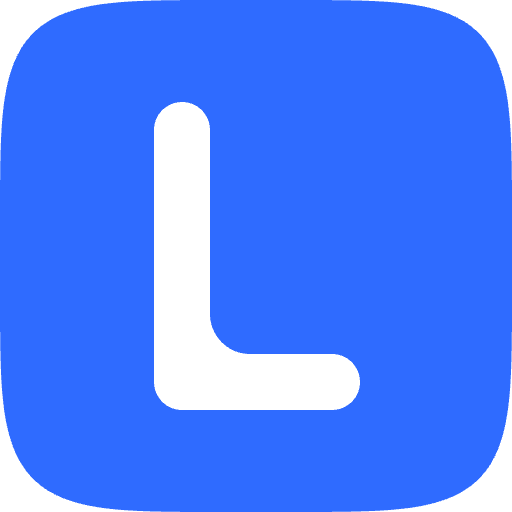
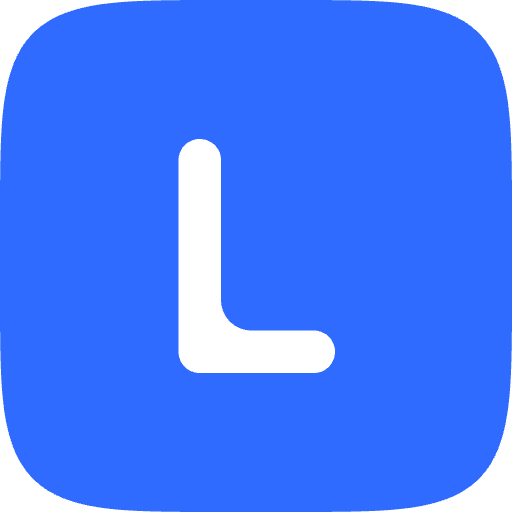
fix(service,manager): 修公网地址与自签证书配对，补 upgrade.sh
- Service pair 增加公网 IPv4 探测（ipify / icanhazip / ifconfig.me 回退），
  新增 --port 覆盖反代端口；配对地址不对时给出明确提示
- 服务端日志打印配对请求、拒绝原因与成功设备，便于判断 Manager 有没有连上
- Manager Android/桌面端允许自签证书：TLS 只做传输，身份仍由 auth.challenge
  的 service_pub 指纹与签名校验；Web 端仍要求系统信任证书
- 新增 scripts/upgrade.sh：停服务、校验 SHA256、备份旧二进制、失败自动回滚
- README/DEPLOY 增加一键升级命令，统一 Service / Manager 术语
- 图标 L 整体缩到 0.76，减轻压迫感；Manager 版本改为 1.0.0+1

Changed region(s): [[0.2812, 0.1875, 0.7188, 0.8125]]

diff --git a/manager/lib/core/socket_io.dart b/manager/lib/core/socket_io.dart
@@ -1,0 +1,17 @@
+// Android/桌面的 WebSocket：允许自签证书。
+//
+// 自托管 Service 默认用自签证书，Android 系统信任库不会认；但真正的身份校验在
+// auth.challenge：客户端比对 service_pub 的指纹并验签，TLS 不是唯一信任边界。
+// 浏览器不允许绕过证书校验，所以 Web 端仍要求 Service 用受信任的证书。
+import 'dart:io';
+
+import 'package:web_socket_channel/io.dart';
+import 'package:web_socket_channel/web_socket_channel.dart';
+
+WebSocketChannel openWebSocket(Uri uri) {
+  final client = HttpClient()
+    ..connectionTimeout = const Duration(seconds: 15)
+    ..badCertificateCallback =
+        (X509Certificate certificate, String host, int port) => true;
+  return IOWebSocketChannel.connect(uri, customClient: client);
+}

diff --git a/manager/lib/core/client.dart b/manager/lib/core/client.dart
@@ -11,6 +11,7 @@ import 'package:web_socket_channel/web_socket_channel.dart';
 import 'identity.dart';
 import 'p256.dart';
 import 'protocol.dart';
+import 'socket.dart';
 
 /// 连接状态，界面按它渲染顶部说明条。
 enum ConnState { idle, connecting, online, reconnecting, error }
@@ -145,7 +146,7 @@ class LiantClient {
 
     final WebSocketChannel channel;
     try {
-      channel = WebSocketChannel.connect(Uri.parse(identity.address.wsUrl));
+      channel = openWebSocket(Uri.parse(identity.address.wsUrl));
     } catch (err) {
       _scheduleRetry('无法连接：$err');
       return;

diff --git a/manager/lib/core/app_state.dart b/manager/lib/core/app_state.dart
@@ -12,6 +12,7 @@ import 'client.dart';
 import 'identity.dart';
 import 'p256.dart';
 import 'protocol.dart';
+import 'socket.dart';
 
 /// 媒体加载状态。
 class MediaState {
@@ -183,7 +184,7 @@ class AppState extends ChangeNotifier {
     final keyPair = p256GenerateKey();
     final WebSocketChannel channel;
     try {
-      channel = WebSocketChannel.connect(Uri.parse(address.wsUrl));
+      channel = openWebSocket(Uri.parse(address.wsUrl));
     } catch (err) {
       throw ProtocolException('offline', '无法连接到服务：$err');
     }

diff --git a/manager/lib/core/socket_web.dart b/manager/lib/core/socket_web.dart
@@ -1,0 +1,4 @@
+// Web：证书交给浏览器校验，客户端不能忽略错误。
+import 'package:web_socket_channel/web_socket_channel.dart';
+
+WebSocketChannel openWebSocket(Uri uri) => WebSocketChannel.connect(uri);

diff --git a/manager/lib/core/socket.dart b/manager/lib/core/socket.dart
@@ -1,0 +1,2 @@
+// 条件导出：原生端可以处理自签证书，Web 端只能交给浏览器。
+export 'socket_io.dart' if (dart.library.js_interop) 'socket_web.dart';

diff --git a/service/cmd/liant/serve.go b/service/cmd/liant/serve.go
@@ -9,6 +9,7 @@ import (
 	"errors"
 	"flag"
 	"fmt"
+	"io"
 	"log/slog"
 	"net"
 	"net/http"
@@ -261,7 +262,8 @@ func pairCommand(args []string) {
 	cfg := loadConfigOrDie()
 
 	fs := flag.NewFlagSet("pair", flag.ExitOnError)
-	hostFlag := fs.String("host", "", "二维码里通告的主机名或 IP；留空则用 connect.address 或自动探测")
+	hostFlag := fs.String("host", "", "配对信息里通告的主机名或 IP；留空则用 connect.address、公网 IP 或本机地址")
+	portFlag := fs.Int("port", 0, "配对信息里通告的端口；留空用 listen 端口（反代到 443 时填 443）")
 	_ = fs.Parse(args)
 
 	pairer := pairing.New()
@@ -303,16 +305,31 @@ func pairCommand(args []string) {
 		os.Exit(1)
 	}
 	if cfg.Connect.Address == "" && *hostFlag == "" {
-		fmt.Printf("自动检测到本机地址：%s，手机需能访问它；跨网请用 --host\n", host)
+		fmt.Printf("自动检测到对外地址：%s，手机需能访问它；不对请用 --host 覆盖\n", host)
 	}
 	if isLoopbackHost(host) {
 		fmt.Fprintf(os.Stderr, "警告：%s 是回环地址，只有 Service 本机能访问；手机请改用 --host <局域网或公网地址>\n", host)
+	} else if isPrivateHost(host) {
+		fmt.Fprintf(os.Stderr, "警告：%s 是内网地址，外网手机不可达；跨网请用 --host <公网 IP 或域名>\n", host)
+	}
+
+	port := portOf(listenAddr(cfg))
+	if *portFlag > 0 {
+		if *portFlag > 65535 {
+			fmt.Fprintln(os.Stderr, "端口超出范围")
+			os.Exit(1)
+		}
+		port = *portFlag
+	}
+	fmt.Printf("配对地址：%s:%d\n", host, port)
+	if port != portOf(listenAddr(cfg)) {
+		fmt.Printf("配对端口使用 %d（监听端口是 %d，确认反代已转发 /v1/ws）\n", port, portOf(listenAddr(cfg)))
 	}
 
 	payload, _ := json.Marshal(map[string]any{
 		"v":     protocol.Version,
 		"host":  host,
-		"port":  portOf(listenAddr(cfg)),
+		"port":  port,
 		"fp":    id.Fingerprint(),
 		"ticket": code.Value,
 		"nonce": code.Nonce,
@@ -331,9 +348,11 @@ func pairCommand(args []string) {
 		}
 	}
 	fmt.Println("手机打开 LianT 客户端「连接 LianT」页，粘贴上面的配对信息（或扫码）；本终端还会再确认一次。")
+	fmt.Println("等待 Manager 连接… 如果长时间没有提示，先确认手机能访问上面的配对地址。")
 
 	if delegated {
 		fmt.Println("检测到服务已在运行，这条配对码交给它处理。")
+		fmt.Println("配对确认会出现在 serve 的终端；systemd 下通常是自动批准，设备登记后这里会打印成功。")
 		before, _ := db.CountDevices(context.Background())
 		deadline := time.Now().Add(time.Until(code.Expires) + 2*time.Minute)
 		for time.Now().Before(deadline) {
@@ -397,14 +416,61 @@ func pairHost(flagHost string, cfg config.Config) string {
 	if h := addressHost(cfg.Connect.Address); h != "" {
 		return h
 	}
-	if ip := localIPv4(); ip != "" {
+	local := localIPv4()
+	// 本机直接有公网地址就不绕 HTTP 探测，避免没网时白等。
+	if local != "" && isPublicIP(local) {
+		return local
+	}
+	if ip := publicIPv4(); ip != "" {
 		return ip
+	}
+	if local != "" {
+		return local
 	}
 	// 主机名可能是 localhost，解析出来就是回环，宁可报错让用户显式给 --host。
 	if name, err := os.Hostname(); err == nil && !isLoopbackHost(name) {
 		return name
 	}
 	return ""
+}
+
+// publicIPv4 依次问几个公共回显服务，拿不到就返回空。
+// 只接受公网 IPv4：回环、私网、链路本地、IPv6 一律忽略。
+func publicIPv4() string {
+	client := &http.Client{Timeout: 4 * time.Second}
+	for _, endpoint := range []string{
+		"https://api.ipify.org",
+		"https://ipv4.icanhazip.com",
+		"https://ifconfig.me/ip",
+	} {
+		resp, err := client.Get(endpoint)
+		if err != nil {
+			continue
+		}
+		body, _ := io.ReadAll(io.LimitReader(resp.Body, 64))
+		resp.Body.Close()
+		ip := net.ParseIP(strings.TrimSpace(string(body)))
+		if ip == nil || ip.To4() == nil {
+			continue
+		}
+		if isPublicIP(ip.String()) {
+			return ip.String()
+		}
+	}
+	return ""
+}
+
+func isPublicIP(host string) bool {
+	ip := net.ParseIP(host)
+	if ip == nil || ip.To4() == nil {
+		return false
+	}
+	return ip.IsGlobalUnicast() && !ip.IsPrivate() && !ip.IsLoopback() && !ip.IsLinkLocalUnicast()
+}
+
+func isPrivateHost(host string) bool {
+	ip := net.ParseIP(host)
+	return ip != nil && ip.IsPrivate()
 }
 
 func isLoopbackHost(host string) bool {

diff --git a/service/internal/server/server.go b/service/internal/server/server.go
@@ -349,6 +349,7 @@ func (c *conn) handlePair(env protocol.Envelope) error {
 		c.writeErrorFor(env, protocol.CodeInvalidPayload, "pair.request 字段不合法", nil)
 		return nil
 	}
+	c.s.opt.Logf("收到配对请求: name=%q ip=%s", req.ManagerName, c.ip)
 	ctx, cancel := context.WithTimeout(context.Background(), 30*time.Second)
 	defer cancel()
 
@@ -421,6 +422,7 @@ func (c *conn) handlePair(env protocol.Envelope) error {
 		return c.denyPair(env, "internal")
 	}
 	c.audit("pair.ok", deviceID, name, "")
+	c.s.opt.Logf("配对成功: device=%s name=%q ip=%s", deviceID, name, c.ip)
 	return c.write(protocol.TypePairOK, env.ID, protocol.PairOK{
 		ServiceID:    c.s.opt.Identity.Fingerprint(),
 		ServiceName:  "LianT Service",
@@ -430,6 +432,7 @@ func (c *conn) handlePair(env protocol.Envelope) error {
 }
 
 func (c *conn) denyPair(env protocol.Envelope, reason string) error {
+	c.s.opt.Logf("拒绝配对: reason=%s ip=%s", reason, c.ip)
 	c.audit("pair.denied", "", "", reason)
 	return c.write(protocol.TypePairDenied, env.ID, protocol.PairDenied{Reason: reason})
 }

diff --git a/docs/HANDOFF.md b/docs/HANDOFF.md
@@ -24,8 +24,10 @@
   所以实际上仍以配对码为主（见 SECURITY.md）
 - **不再内嵌网页管理端**：`internal/webui` 与 `web/` 已删除。根路径只返回一行纯文本说明，
   作用一是健康检查，二是让浏览器在这一层信任自签证书；`/v1/ws` 与 `/v1/media/` 保持
-- `LianT pair` 现在打印**配对信息 JSON** 并把 JSON 本身渲染成二维码（`data/pair-qr.png`），
-  不再生成 `https://…/#pair=` 管理页链接
+- `LianT pair` 打印**配对信息 JSON** 并把 JSON 本身渲染成二维码（`data/pair-qr.png`），
+  不再生成 `https://…/#pair=` 管理页链接；`--host` / `--port` 可覆盖对外地址，
+  公网 IPv4 会依次问 ipify / icanhazip / ifconfig.me，拿不到才退回内网地址
+- 配对请求现在会在服务端日志里打出「收到 / 拒绝 / 成功」，用 `journalctl -u liant -f` 能看到
 - QQ 适配器同时接 `GROUP_AT_MESSAGE_CREATE` 与 `GROUP_MESSAGE_CREATE`；`can_initiate=true`；
   `msg.send.active=true` 表示主动消息（不带 `msg_id`，因此没有 @ 和引用）
 - 群资料 `GET /v2/groups/{openid}/info`，403/404 → `event.peer {hint:"whitelist"}`
@@ -49,6 +51,8 @@ Docker 已全部移除，不要加回来。
   失败重试、`msg.list` 历史、`media.fetch`、设备/审计、备注/已读/主动消息持久化；
   消息最多留 2000 条，备注与已读不设上限。
 - `lib/core/browser_env*.dart`：条件导入，Web 读地址栏参数，其它平台返回 null。
+- `lib/core/socket*.dart`：条件导入；Android/桌面端接受自签证书（身份仍由 auth.challenge
+  的节点指纹校验），Web 端交给浏览器。
 - `android/` 已入库：应用 ID `com.bailensn.liant`，主清单带 `INTERNET` 权限，
   Gradle 工具链按 CI 的 Flutter 3.24.5 对齐（Gradle 8.3 / AGP 8.1.0 / Kotlin 1.8.22）。
   图标源文件是 `assets/icon.svg`（iOS squircle 蓝底 + 圆头 L）与 `assets/icon_foreground.svg`，
@@ -145,6 +149,7 @@ cd build/web && setsid nohup python3 -m http.server 8081 --bind 127.0.0.1 >/dev/
 - Android 还没有正式签名配置（release 包临时用 debug key 签名），正式上架需要接 signingConfig
 - Android 真机还没跑过配对与收发（本机只有 Web 预览与 mock 服务）
 - Basic 认证启用后，Flutter 原生端无法在 WebSocket 握手提供凭据；用反代侧访问控制或暂不开启
+- Web 端连接自签证书仍会失败；需要先信任证书或反代换正式证书
 - 通知、真机截图仍是缺口
 - DSH 的 Linux 环境装不上（loader 资产校验写死在 APK 里），与项目无关，不要浪费时间
 

diff --git a/docs/DEPLOY.md b/docs/DEPLOY.md
@@ -62,7 +62,11 @@ QQ 的 `app_id/app_secret` 来自 QQ 开放平台机器人后台。
 ./LianT pair                    # 自动探测本机 IPv4，适合手机和服务器同一网络
 ./LianT pair --host 1.2.3.4     # 指定手机可达的地址
 ./LianT pair --host liant.example.com   # 有域名/反代时
+./LianT pair --host liant.example.com --port 443   # 反代对外是 443 时
 ```
+
+`pair` 会按「`--host` > `config.connect.address` > 本机公网 IPv4 > 本机内网 IPv4 > 主机名」
+决定配对地址；公网 IP 通过多个公共回显服务探测，探测不到会打印提示，用 `--host` 覆盖即可。
 
 配对成功后 `pair` **不会退出**，会继续以服务模式运行（Bot 也会被认领），
 所以之后不需要再单独 `serve`；要停止按 Ctrl+C。
@@ -79,8 +83,8 @@ QQ 的 `app_id/app_secret` 来自 QQ 开放平台机器人后台。
 手机连上后服务端终端会要求输入 `y` 确认，成功即把设备公钥写入 `devices` 表。
 配对码 60 秒有效、一次性；默认最多 8 台设备。
 
-> 客户端第一次连接时要信任服务端证书。自签证书在 Android 端需要装进系统信任库，
-> 浏览器则要先用 https 访问一次并手动信任；生产环境建议用反代换成正式证书。
+> Android/桌面端的 Manager **允许自签证书**（TLS 只做传输，身份由 `auth.challenge`
+> 里的节点指纹与签名校验）；Web 端仍要系统信任证书，生产环境建议用反代换成正式证书。
 
 ## 5. 客户端
 
@@ -129,6 +133,15 @@ systemd 示例见 `deploy/liant.service`。
 - 客户端本地另有上限（消息 2000 条），是否清理由用户在客户端决定。
 
 ## 8. 升级与回滚
+
+一键升级（停服务、校验 SHA256、备份旧二进制、重启）：
+
+```bash
+curl -fsSL https://raw.githubusercontent.com/Bailensn/LianT/main/scripts/upgrade.sh | sudo bash
+```
+
+也可以指定二进制：`sudo bash scripts/upgrade.sh ./LianT-linux-amd64`。
+旧版本会留在 `/opt/liant/LianT.bak`，启动失败时脚本会自动回滚。
 
 - 数据库有 `PRAGMA user_version` 迁移，启动时自动升级；升级前先备份 `data/`；
 - 节点密钥与证书在 `data/node/`：证书剩余不足 30 天会自动用同一私钥重签，指纹不变；

diff --git a/README.md b/README.md
@@ -5,9 +5,9 @@
 LianT is a self-hosted **Bot Engine** for chat-platform bots (QQ first; Telegram next),
 with a Flutter client for operating it.
 
-- **Engine** (`service/`): Go, WSS protocol v1, SQLite, 7-day message buffer. It serves
+- **Service** (the engine, `service/`): Go, WSS protocol v1, SQLite, 7-day message buffer. It serves
   `/v1/ws` and signed media links only — no embedded web console.
-- **Client** (`manager/`): Flutter. **Android is the only shipped target**; the web build is
+- **Manager** (the Flutter client, `manager/`): **Android is the only shipped target**; the web build is
   a local preview surface only and is not published. No desktop builds.
   Conversations, bots, devices and audit logs are part of the same protocol surface.
 
@@ -22,8 +22,14 @@ curl -fsSL https://raw.githubusercontent.com/Bailensn/LianT/main/scripts/install
 Use `LIANT_DIR=/opt/liant LIANT_PORT=8443` to override the defaults, or pass a local binary:
 `sudo bash scripts/install.sh ./LianT-linux-amd64`.
 
-Then open the Android client, paste the pairing info printed by `LianT pair`, and confirm
+Then open the Android Manager, paste the pairing info printed by `LianT pair`, and confirm
 on the server terminal. The Service serves `/v1/ws` and `/v1/media/` only; there is no web console.
+
+Upgrade in place (stops the service, verifies SHA256, backs up the old binary, restarts):
+
+```bash
+curl -fsSL https://raw.githubusercontent.com/Bailensn/LianT/main/scripts/upgrade.sh | sudo bash
+```
 
 ## Documents
 

diff --git a/README.zh-CN.md b/README.zh-CN.md
@@ -5,9 +5,9 @@
 LianT 是一个自托管的 **Bot Engine**（Bot 引擎），首发 QQ、Telegram 随后，
 并带一个 Flutter 客户端用来运营这些 Bot。
 
-- **引擎**（`service/`）：Go，WSS 协议 v1，SQLite，消息保留 7 天。
+- **Service（服务端/引擎）**（`service/`）：Go，WSS 协议 v1，SQLite，消息保留 7 天。
   只提供 `/v1/ws` 与签名媒体链接，不再内嵌网页管理端。
-- **客户端**（`manager/`）：Flutter。**Android 是唯一交付目标**；Web 只在本地用于预览，
+- **Manager（客户端）**（`manager/`）：Flutter。**Android 是唯一交付目标**；Web 只在本地用于预览，
   不对外发布；不做桌面端。会话、机器人、设备与安全日志都走同一份协议。
 
 ## 一键安装
@@ -24,6 +24,12 @@ curl -fsSL https://raw.githubusercontent.com/Bailensn/LianT/main/scripts/install
 装完后在这台机器执行 `cd /opt/liant && ./LianT pair --host <手机可达地址>`，
 把终端打印的配对信息粘到 Android 客户端的「连接 LianT」页，再在终端确认一次。
 服务端只提供 `/v1/ws` 与 `/v1/media/`，没有网页管理端。
+
+原地升级（停服务、校验 SHA256、备份旧二进制、重启）：
+
+```bash
+curl -fsSL https://raw.githubusercontent.com/Bailensn/LianT/main/scripts/upgrade.sh | sudo bash
+```
 
 ## 文档
 

diff --git a/docs/SECURITY.md b/docs/SECURITY.md
@@ -13,8 +13,9 @@
 
 ## 每次连接发生什么
 
-1. TLS 握手：浏览器与原生客户端都依赖系统信任库，**v1 不在客户端做证书钉扎**；
-   自签证书需要先被信任，或由反代换成正式证书。
+1. TLS 握手：浏览器依赖系统信任库；Android/桌面端的 Manager **允许自签证书**
+   （TLS 只做传输加密），真正的身份由下一步的 `service_pub` 指纹与签名把关。
+   Web 端无法绕过证书校验，必须让证书被系统信任或用反代换成正式证书。
 2. `auth.challenge` 带 `service_pub` 与 `service_sig`：客户端先比对公钥指纹与配对时
    钉住的值，再验签。不一致直接断开。这一步把证书钉扎补在应用层——反代、企业根证书、
    被攻陷的 CA 都冒充不了服务端。
